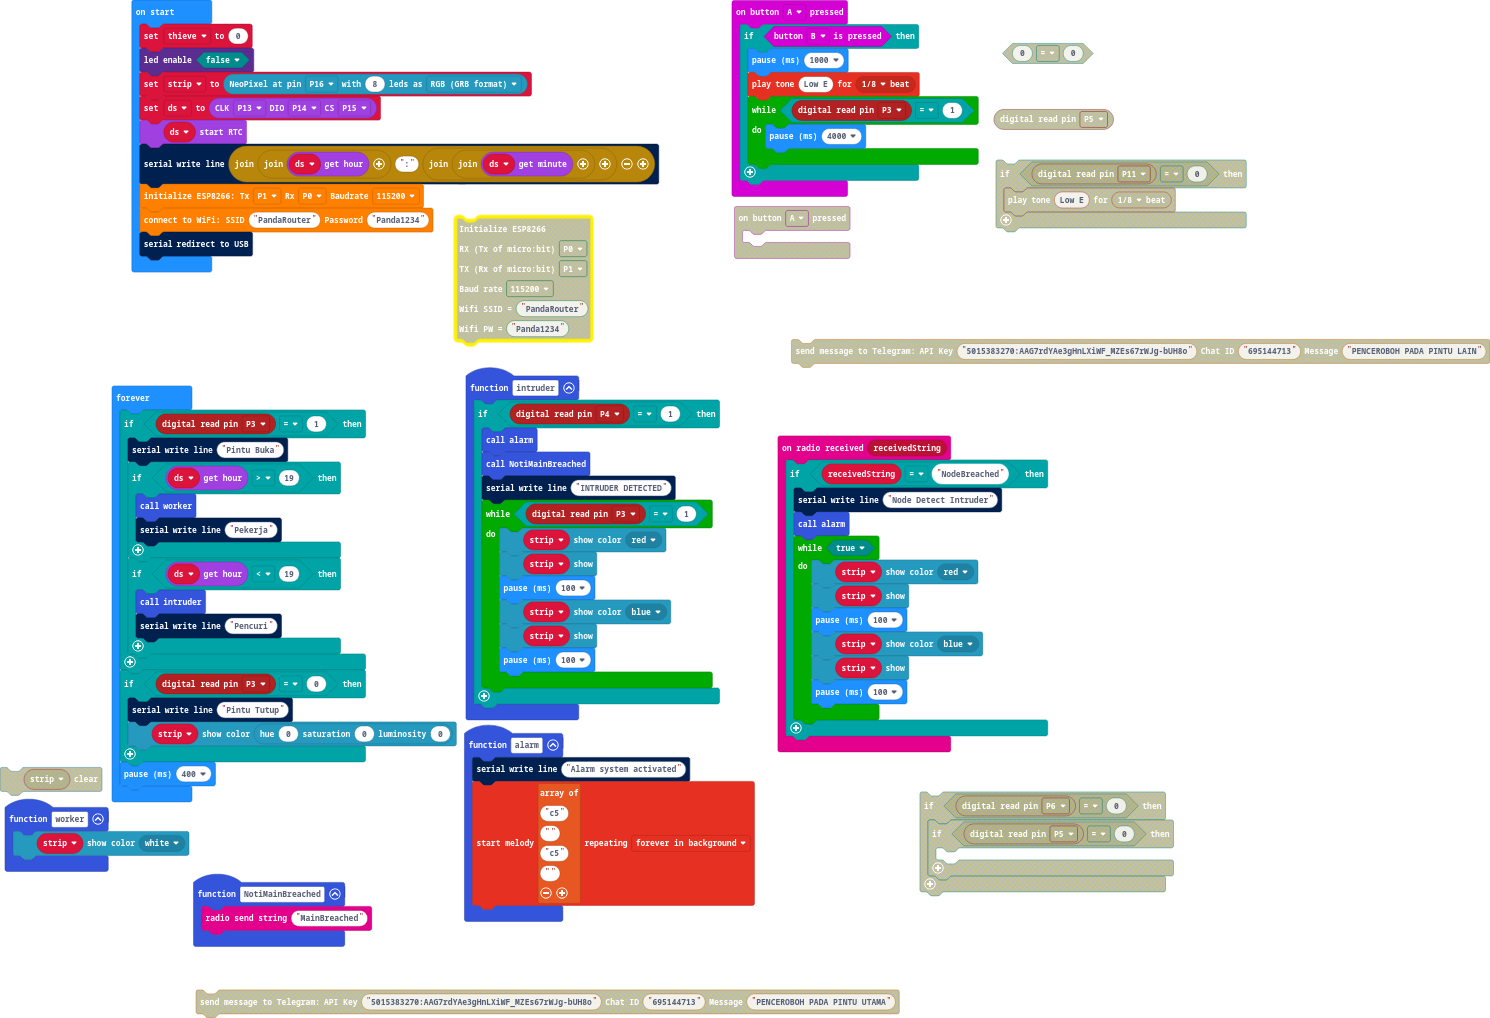
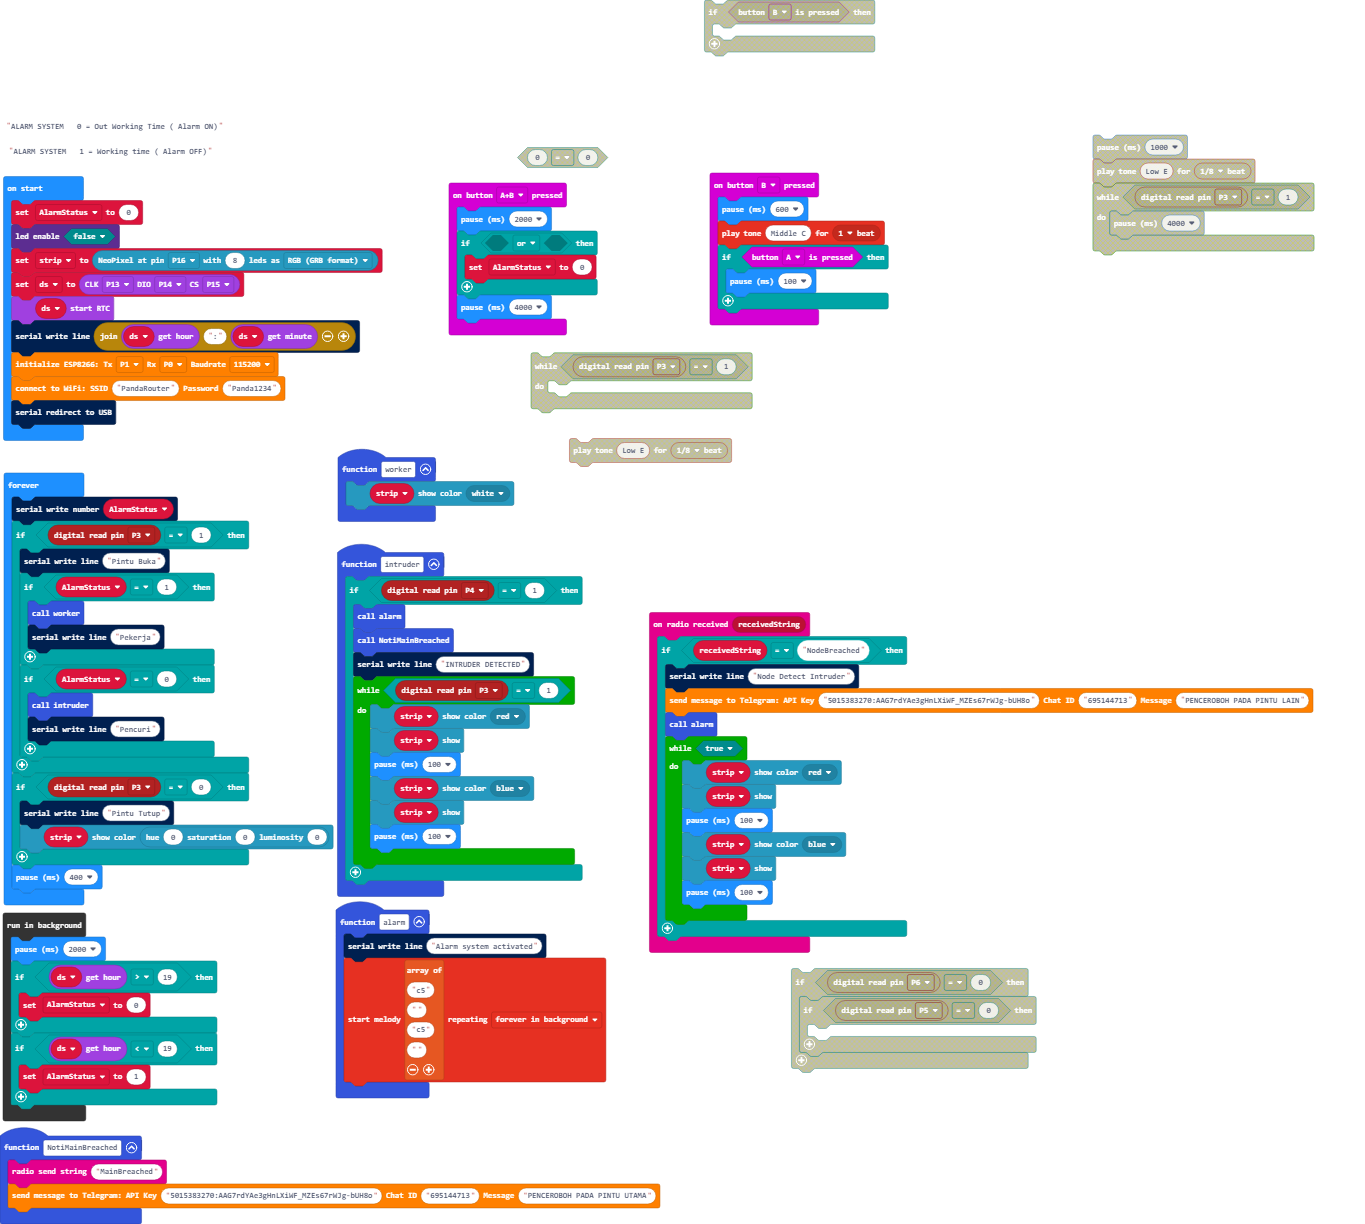
Update main.blocks, main.ts

diff --git a/main.ts b/main.ts
@@ -1,15 +1,7 @@
 function NotiMainBreached () {
     radio.sendString("MainBreached")
+    esp8266.sendTelegramMessage("5015383270:AAG7rdYAe3gHnLXiWF_MZEs67rWJg-bUH8o", "695144713", "PENCEROBOH PADA PINTU UTAMA")
 }
-input.onButtonPressed(Button.A, function () {
-    if (input.buttonIsPressed(Button.B)) {
-        basic.pause(1000)
-        music.playTone(165, music.beat(BeatFraction.Eighth))
-        while (pins.digitalReadPin(DigitalPin.P3) == 1) {
-            basic.pause(4000)
-        }
-    }
-})
 function intruder () {
     if (pins.digitalReadPin(DigitalPin.P4) == 1) {
         alarm()
@@ -34,9 +26,17 @@ function alarm () {
     ""
     ], MelodyOptions.ForeverInBackground)
 }
+input.onButtonPressed(Button.AB, function () {
+    basic.pause(2000)
+    if (false || false) {
+        AlarmStatus = 0
+    }
+    basic.pause(4000)
+})
 radio.onReceivedString(function (receivedString) {
     if (receivedString == "NodeBreached") {
         serial.writeLine("Node Detect Intruder")
+        esp8266.sendTelegramMessage("5015383270:AAG7rdYAe3gHnLXiWF_MZEs67rWJg-bUH8o", "695144713", "PENCEROBOH PADA PINTU LAIN")
         alarm()
         while (true) {
             strip.showColor(neopixel.colors(NeoPixelColors.Red))
@@ -48,27 +48,36 @@ radio.onReceivedString(function (receivedString) {
         }
     }
 })
+input.onButtonPressed(Button.B, function () {
+    basic.pause(600)
+    music.playTone(262, music.beat(BeatFraction.Whole))
+    if (input.buttonIsPressed(Button.A)) {
+        basic.pause(100)
+    }
+})
 function worker () {
     strip.showColor(neopixel.colors(NeoPixelColors.White))
 }
 let strip: neopixel.Strip = null
-let thieve = 0
+let AlarmStatus = 0
+AlarmStatus = 0
 led.enable(false)
 strip = neopixel.create(DigitalPin.P16, 8, NeoPixelMode.RGB)
 let ds = DS1302.create(DigitalPin.P13, DigitalPin.P14, DigitalPin.P15)
 ds.start()
-serial.writeLine("" + ds.getHour() + ":" + ("" + ds.getMinute()))
+serial.writeLine("" + ds.getHour() + ":" + ds.getMinute())
 esp8266.init(SerialPin.P1, SerialPin.P0, BaudRate.BaudRate115200)
 esp8266.connectWiFi("PandaRouter", "Panda1234")
 serial.redirectToUSB()
 basic.forever(function () {
+    serial.writeNumber(AlarmStatus)
     if (pins.digitalReadPin(DigitalPin.P3) == 1) {
         serial.writeLine("Pintu Buka")
-        if (ds.getHour() > 19) {
+        if (AlarmStatus == 1) {
             worker()
             serial.writeLine("Pekerja")
         }
-        if (ds.getHour() < 19) {
+        if (AlarmStatus == 0) {
             intruder()
             serial.writeLine("Pencuri")
         }
@@ -78,4 +87,13 @@ basic.forever(function () {
         strip.showColor(neopixel.hsl(0, 0, 0))
     }
     basic.pause(400)
+})
+control.inBackground(function () {
+    basic.pause(2000)
+    if (ds.getHour() > 19) {
+        AlarmStatus = 0
+    }
+    if (ds.getHour() < 19) {
+        AlarmStatus = 1
+    }
 })
